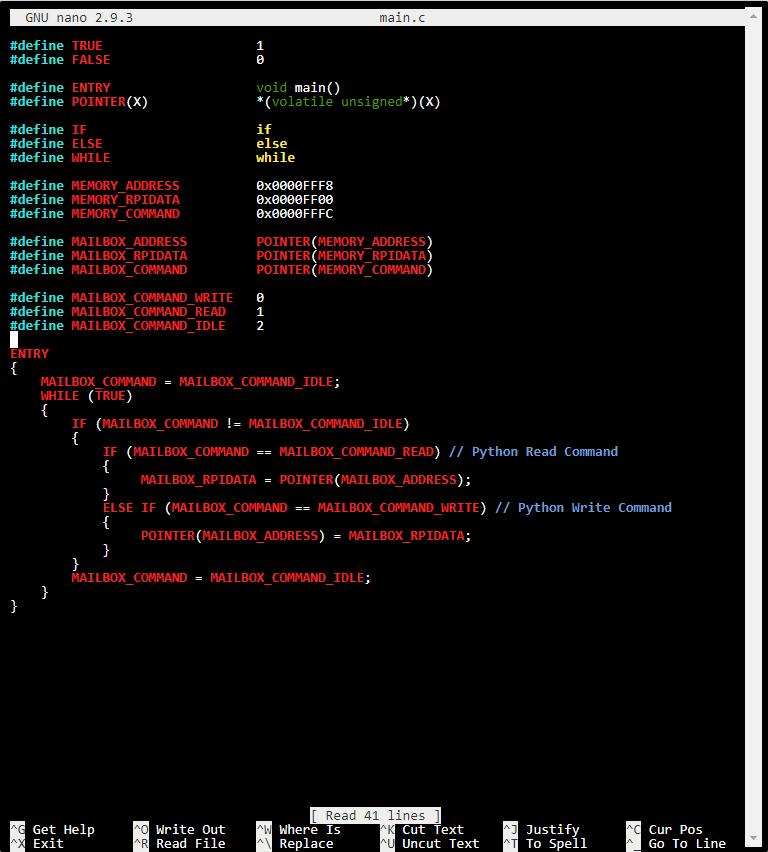
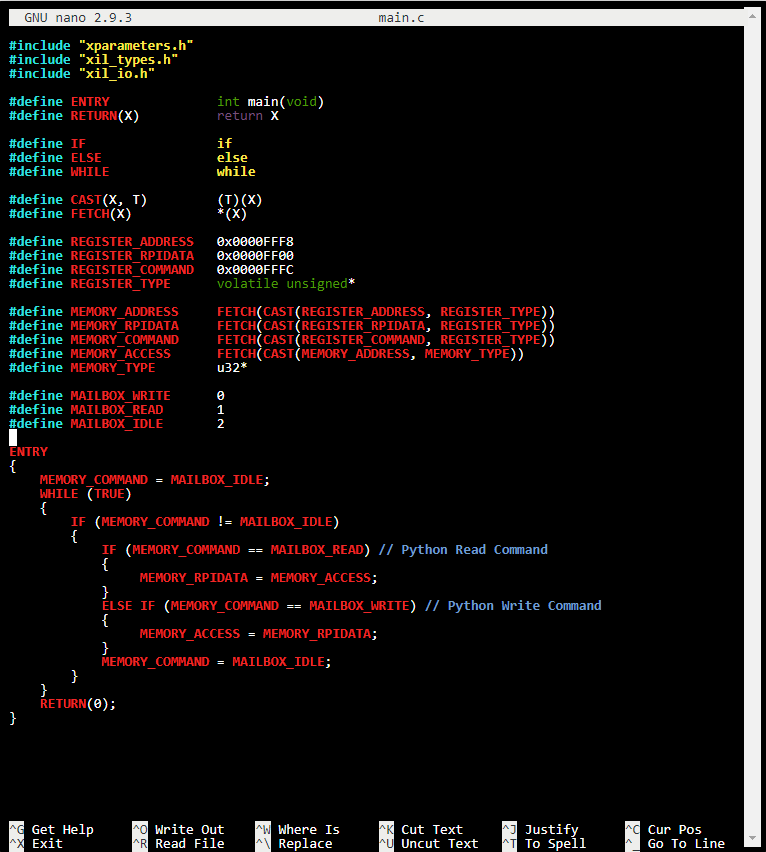
Tested RPi Mailbox for Reliability

diff --git a/gpio/raspberry.py b/gpio/raspberry.py
@@ -1,48 +1,97 @@
 #!/usr/bin/python3
 from pynq.overlays.base import BaseOverlay
 import pynq.lib.rpi as rpi
-#import time
+import time
 
 print("[INFO]: Loading Base Overlay...")
 base = BaseOverlay("base.bit")
 base.select_rpi()
-pi = rpi.Rpi(base.RPI, "/home/xilinx/microblaze/rpi_mailbox/rpi_mailbox.elf")
+pi = rpi.Rpi(base.RPI, "/home/xilinx/microblaze/rpi_mailbox/rpi_mailbox.bin")
+pi.reset()
+pi.run()
 print("[INFO]: RPi MicroBlaze State: " + str(pi.state))
+
+READ = rpi.READ_CMD
+WRITE = rpi.WRITE_CMD
 
 ADDRESS = rpi.MAILBOX_OFFSET + rpi.MAILBOX_PY2IOP_ADDR_OFFSET
 RPIDATA = rpi.MAILBOX_OFFSET + rpi.MAILBOX_PY2IOP_DATA_OFFSET
 COMMAND = rpi.MAILBOX_OFFSET + rpi.MAILBOX_PY2IOP_CMD_OFFSET
 
+def idlecheck():
+    countdown = 10
+    while ((pi.read(COMMAND) != 0x2) and (countdown > 0)):
+        time.sleep(0.001)
+        countdown -= 1
+    return countdown
+
 def pi_get(address):
     pi.write(ADDRESS, address)
-    pi.write(COMMAND, rpi.READ_CMD)
-    return pi.read(RPIDATA)
+    pi.write(COMMAND, READ)
+    if (idlecheck() != 0):
+        return pi.read(RPIDATA)
+    else:
+        return 0x00000000
 
 def pi_set(address, data):
     pi.write(ADDRESS, address)
     pi.write(RPIDATA, data)
-    pi.write(COMMAND, rpi.WRITE_CMD)
+    pi.write(COMMAND, WRITE)
+    return idlecheck()
 
-gpio_base = rpi.RPI_DIO_BASEADDR
-gpio_size = 0x1C
+gpio_base = rpi.RPI_DIO_BASEADDR + rpi.RPI_DIO_DATA_OFFSET
+tri_base = rpi.RPI_DIO_BASEADDR + rpi.RPI_DIO_TRI_OFFSET
+gpio_size = 0x8
 
-pi_set(gpio_base + 0x8, 0xFFFFFFFF)
+addresses = [ADDRESS, RPIDATA, COMMAND]
+for address in addresses:
+    data = pi.mmio.read(address)
+    print("[MMIO]: 0x{:016X}: 0x{:08X}".format(address, data))
 
 for offset in range(0, gpio_size, 4):
     address = gpio_base + offset
     data = pi_get(address)
-    print("[MBOX]: {:016X}: {:08X}".format(address, data))
+    print("[MBOX]: 0x{:016X}: 0x{:08X}".format(address, data))
 
-#value = pi_get(gpio_base)
-#value |= (1 << 29)
-#pi_set(gpio_base, value)
+#pi_set(tri_base, 0)
 
-#time.sleep(5)
+tmp = pi_get(tri_base)
+print("[TMP1]: 0x{:08X}".format(tmp))
+tmp &= 0xFFFFFFFF ^ (1 << 5)
+print("[TMP2]: 0x{:08X}".format(tmp))
+pi_set(tri_base, tmp)
 
-#value = pi.read(gpio_base)
-#value &= 0xffffffff ^ (1 << 29)
-#pi.write(gpio_base, value)
+#pi_set(gpio_base, (1 << 5))
 
+tmp = pi_get(gpio_base)
+print("[TMP1]: 0x{:08X}".format(tmp))
+tmp |= (1 << 5)
+print("[TMP2]: 0x{:08X}".format(tmp))
+pi_set(gpio_base, tmp)
+
+for offset in range(0, gpio_size, 4):
+    address = gpio_base + offset
+    data = pi_get(address)
+    print("[MBOX]: 0x{:016X}: 0x{:08X}".format(address, data))
+
+time.sleep(3)
+print("[WAIT]: 3")
+
+#pi_set(gpio_base, 0)
+
+tmp = pi_get(gpio_base)
+#tmp &= ~(1 << 5)
+tmp &= 0xFFFFFFFF ^ (1 << 5)
+pi_set(gpio_base, tmp)
+
+for offset in range(0, gpio_size, 4):
+    address = gpio_base + offset
+    data = pi_get(address)
+    print("[MBOX]: 0x{:016X}: 0x{:08X}".format(address, data))
+
+
+print("0x{:08X}".format(~(1 << 5)))
+print("0x{:08X}".format(0xFFFFFFFF ^ (1 << 5)))
 
 """
 GPIO5  = rpi_io.RPI_IO(base.iop_rpi.mb_info,  5, "out")

diff --git a/microblaze/rpi_mailbox/main.c b/microblaze/rpi_mailbox/main.c
@@ -1,47 +1,49 @@
-//#include "xparameters.h"
-//#include "xil_types.h"
-//#include "xil_io.h"
+#include "xparameters.h"
+#include "xil_types.h"
+#include "xil_io.h"
 
-#define TRUE                    1
-#define FALSE                   0
+#define ENTRY              int main(void)
+#define RETURN(X)          return X
 
-#define ENTRY                   void main()
-#define POINTER(X)              *(volatile unsigned*)(X)
+#define IF                 if
+#define ELSE               else
+#define WHILE              while
 
-#define IF                      if
-#define ELSE                    else
-#define WHILE                   while
+#define CAST(X, T)         (T)(X)
+#define FETCH(X)           *(X)
 
-#define MEMORY_ADDRESS          0x0000FFF8
-#define MEMORY_RPIDATA          0x0000FF00
-#define MEMORY_COMMAND          0x0000FFFC
+#define REGISTER_ADDRESS   0x0000FFF8
+#define REGISTER_RPIDATA   0x0000FF00
+#define REGISTER_COMMAND   0x0000FFFC
+#define REGISTER_TYPE      volatile unsigned*
 
-#define MAILBOX_ADDRESS         POINTER(MEMORY_ADDRESS)
-#define MAILBOX_RPIDATA         POINTER(MEMORY_RPIDATA)
-#define MAILBOX_COMMAND         POINTER(MEMORY_COMMAND)
+#define MEMORY_ADDRESS     FETCH(CAST(REGISTER_ADDRESS, REGISTER_TYPE))
+#define MEMORY_RPIDATA     FETCH(CAST(REGISTER_RPIDATA, REGISTER_TYPE))
+#define MEMORY_COMMAND     FETCH(CAST(REGISTER_COMMAND, REGISTER_TYPE))
+#define MEMORY_ACCESS      FETCH(CAST(MEMORY_ADDRESS, MEMORY_TYPE))
+#define MEMORY_TYPE        u32*
 
-#define MAILBOX_COMMAND_WRITE   0
-#define MAILBOX_COMMAND_READ    1
-#define MAILBOX_COMMAND_IDLE    2
+#define MAILBOX_WRITE      0
+#define MAILBOX_READ       1
+#define MAILBOX_IDLE       2
 
 ENTRY
 {
-    MAILBOX_COMMAND = MAILBOX_COMMAND_IDLE;
+    MEMORY_COMMAND = MAILBOX_IDLE;
     WHILE (TRUE)
     {
-        IF (MAILBOX_COMMAND != MAILBOX_COMMAND_IDLE)
+        IF (MEMORY_COMMAND != MAILBOX_IDLE)
         {
-            IF (MAILBOX_COMMAND == MAILBOX_COMMAND_READ) // Python Read Command
+            IF (MEMORY_COMMAND == MAILBOX_READ) // Python Read Command
             {
-                 MAILBOX_RPIDATA = POINTER(MAILBOX_ADDRESS);
+                 MEMORY_RPIDATA = MEMORY_ACCESS;
             }
-            ELSE IF (MAILBOX_COMMAND == MAILBOX_COMMAND_WRITE) // Python Write Command
+            ELSE IF (MEMORY_COMMAND == MAILBOX_WRITE) // Python Write Command
             {
-                 POINTER(MAILBOX_ADDRESS) = MAILBOX_RPIDATA;
-                 MAILBOX_RPIDATA = FALSE;
+                 MEMORY_ACCESS = MEMORY_RPIDATA;
             }
-            MAILBOX_ADDRESS = FALSE;
+            MEMORY_COMMAND = MAILBOX_IDLE;
         }
-        MAILBOX_COMMAND = MAILBOX_COMMAND_IDLE;
     }
+    RETURN(0);
 }

diff --git a/microblaze/rpi_mailbox/README.md b/microblaze/rpi_mailbox/README.md
@@ -1,1 +1,2 @@
 ![screenshot](https://github.com/themindvirus/microblaze/blob/main/microblaze/rpi_mailbox/dev.png)
+![screenshot](https://github.com/themindvirus/microblaze/blob/main/microblaze/rpi_mailbox/mbox.png)
